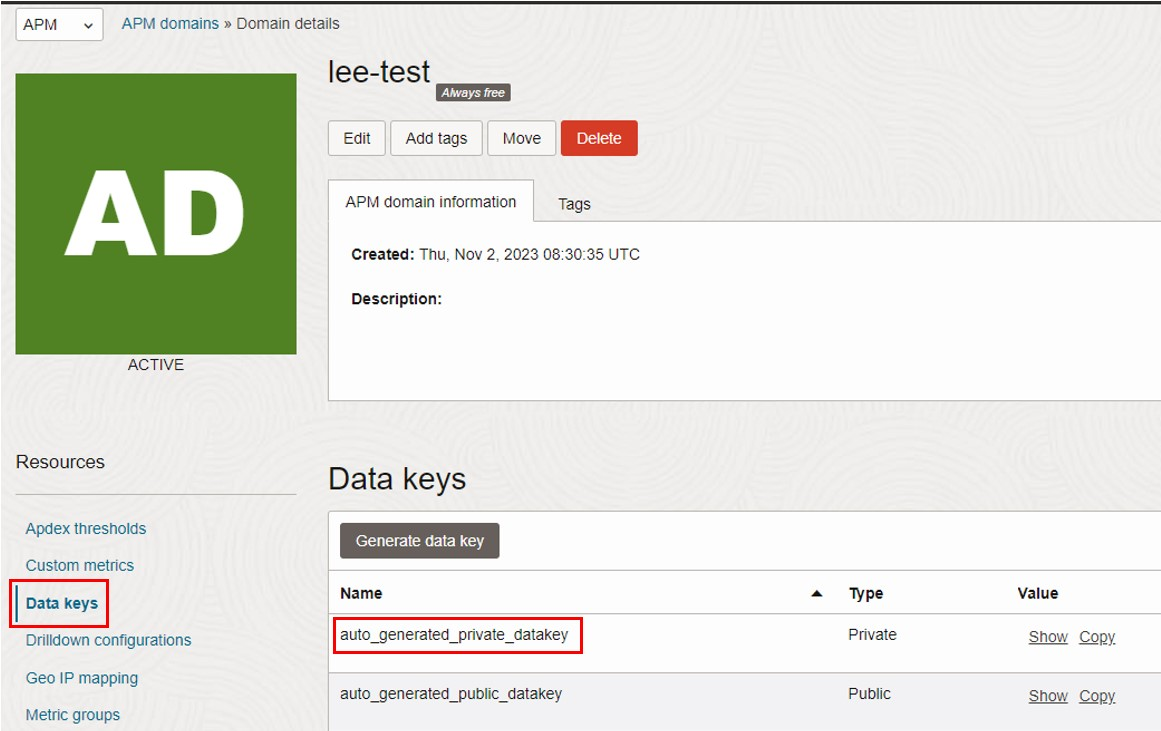
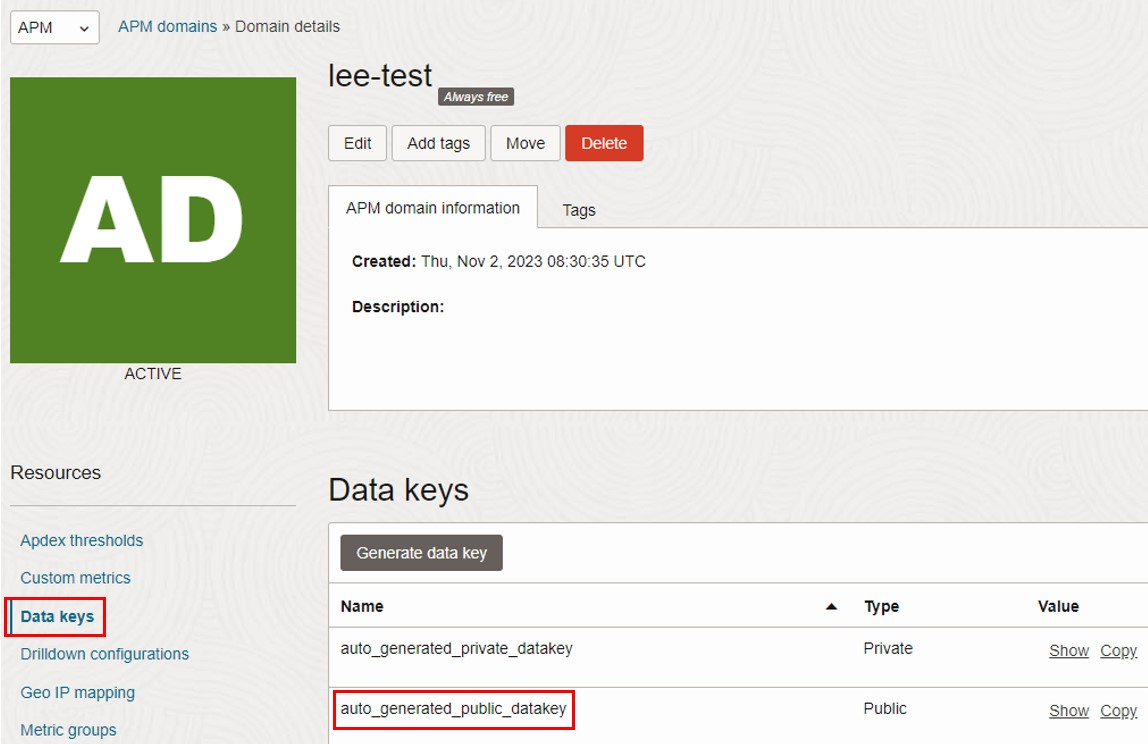
modified

diff --git a/OCI/APM関連.md b/OCI/APM関連.md
@@ -2,10 +2,25 @@
 - APMのAdministratorでまずドメインを作成する必要がある
   ![](image/APM_1.jpg)
   ![](image/APM_2.jpg)
-- 作成したドメインに入ってData Keysタブで自動生成されたPrivate Keyを押さえておく
+- 作成したドメインに入ってData Keysタブで自動生成されたPublic Keyを押さえておく(ShowやCopyで確認可能)
   ![](image/APM_3.jpg)
 - 同じくデータを連携するエンドポイントも押さえておく
   ![](image/APM_4.jpg)
+- 環境変数を設定する
+  ~~~
+  export OTEL_TRACES_EXPORTER=otlp
+  export OTEL_SERVICE_NAME=<任意のMicroService名>
+  export OTEL_EXPORTER_OTLP_TRACES_PROTOCOL=http/protobuf
+  export OTEL_EXPORTER_OTLP_TRACES_HEADERS="authorization=dataKey <上の手順で押さえたPublic Data Key>"
+  export OTEL_EXPORTER_OTLP_TRACES_ENDPOINT=<上の手順で押さえたエンドポイント>/20200101/opentelemetry/private/v1/traces/
+  export OTEL_METRICS_EXPORTER=otlp
+  export OTEL_EXPORTER_OTLP_METRICS_ENDPOINT=<上の手順で押さえたエンドポイント>/20200101/opentelemetry/v1/metrics
+  export OTEL_EXPORTER_OTLP_METRICS_HEADERS="authorization=dataKey <上の手順で押さえたPublic Data Key>"
+  export OTEL_EXPORTER_OTLP_METRICS_PROTOCOL=http/protobuf
+  ~~~
+  - https://docs.oracle.com/en-us/iaas/application-performance-monitoring/doc/configure-open-source-tracing-systems.html
+- Opentelemetry java auto instrumentationをjavaagentとして指定してJavaアプリを起動する
+  - https://github.com/open-telemetry/opentelemetry-java-instrumentation
 
 #### 参考ページ
 - https://docs.oracle.com/ja-jp/iaas/application-performance-monitoring/doc/configure-open-source-tracing-systems.html#GUID-4D941163-F357-4839-8B06-688876D4C61F__GUID-6E301FC6-5CED-4AE1-9308-D6A342DE1339
